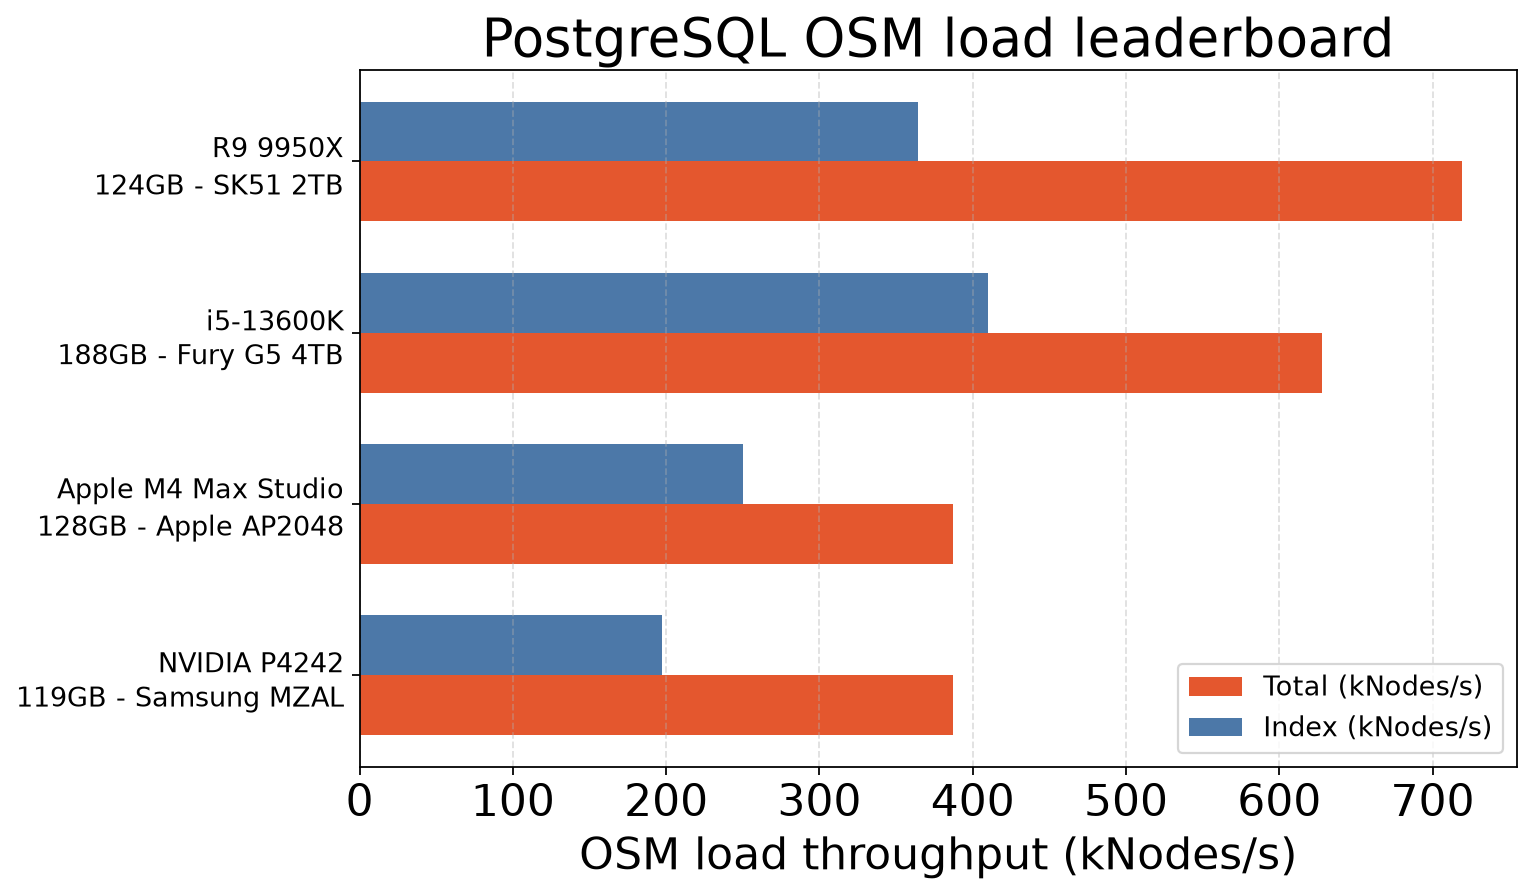
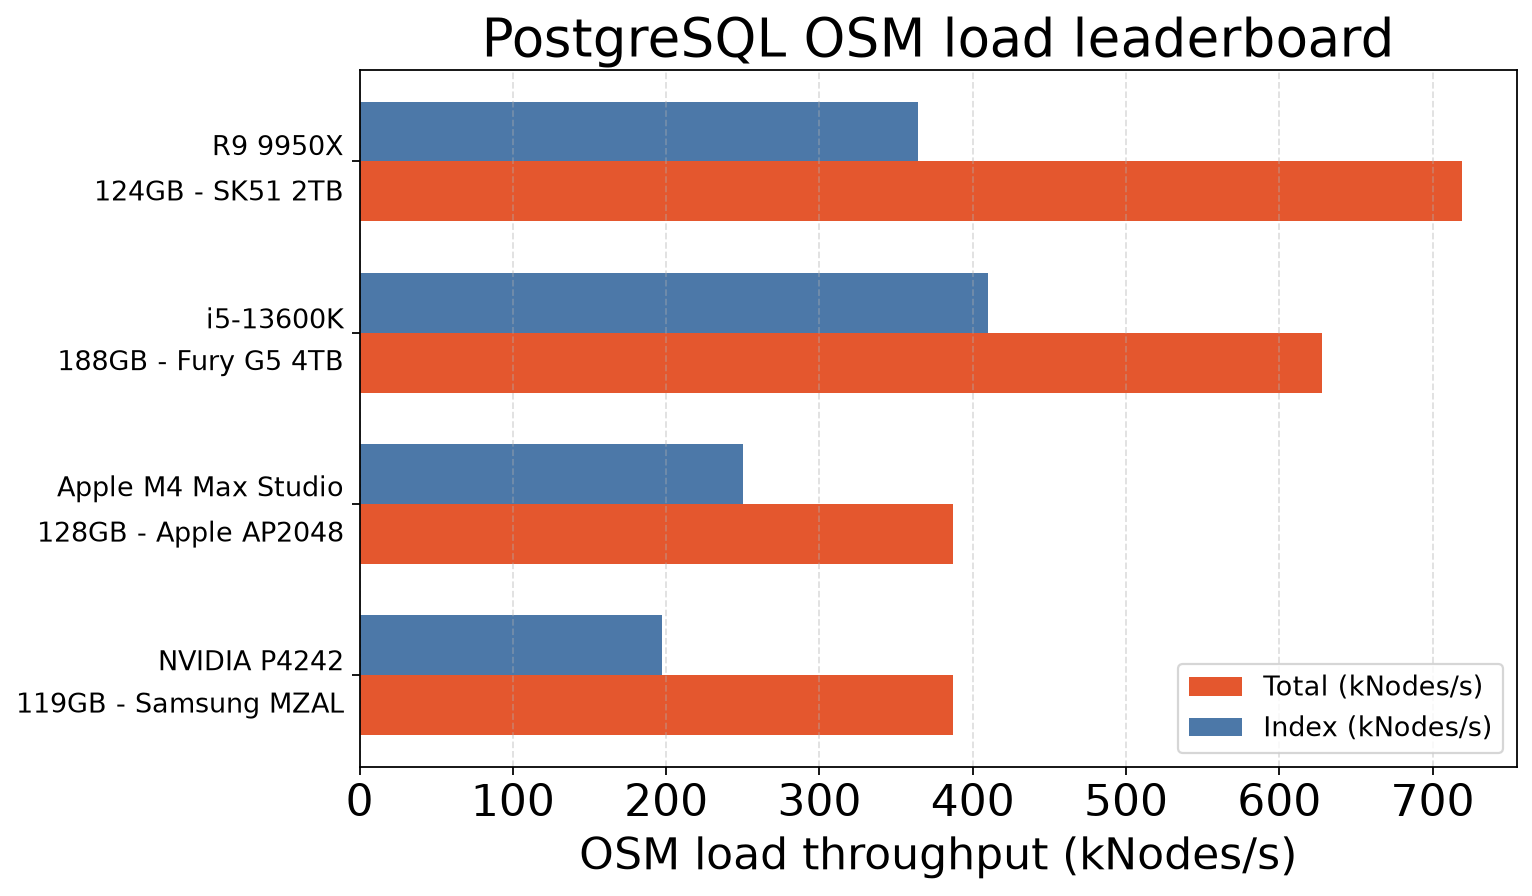
Open a visible gap between OSM CPU and memory-disk label lines.
1.4 stopped the overlap but left the two lines touching.

diff --git a/reports/osm-leaderboard.py b/reports/osm-leaderboard.py
@@ -50,7 +50,7 @@ ENERGY_COLOR = "#2a9d8f"
 BAR_LABEL_INSIDE_COLOR = "#ffffff"
 BAR_LABEL_OUTSIDE_COLOR = "#333333"
 SCATTER_MARKER_SIZE = 90
-LABEL_LINESPACING = 1.4
+LABEL_LINESPACING = 1.7
 DEFAULT_CONN = "host=localhost dbname=results user=gsmith password=secret"
 SQL_PATH = REPO_ROOT / "reports" / "osm-leaderboard.sql"
 LEADERBOARD_PAGE = REPO_ROOT / "docs" / "leaderboards.md"
